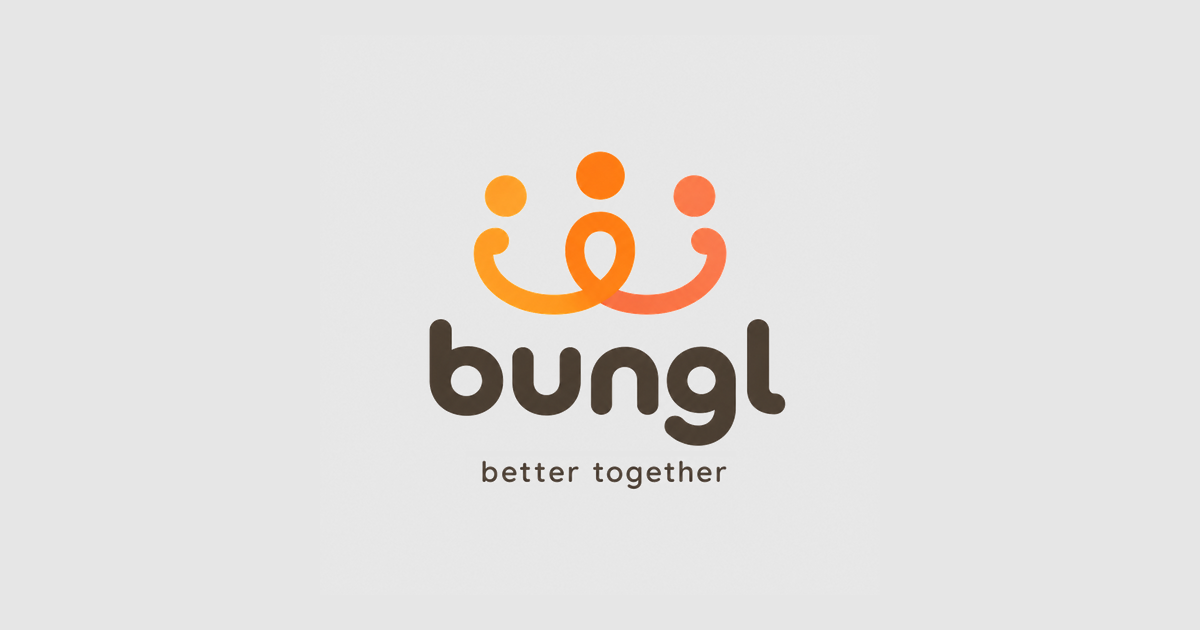
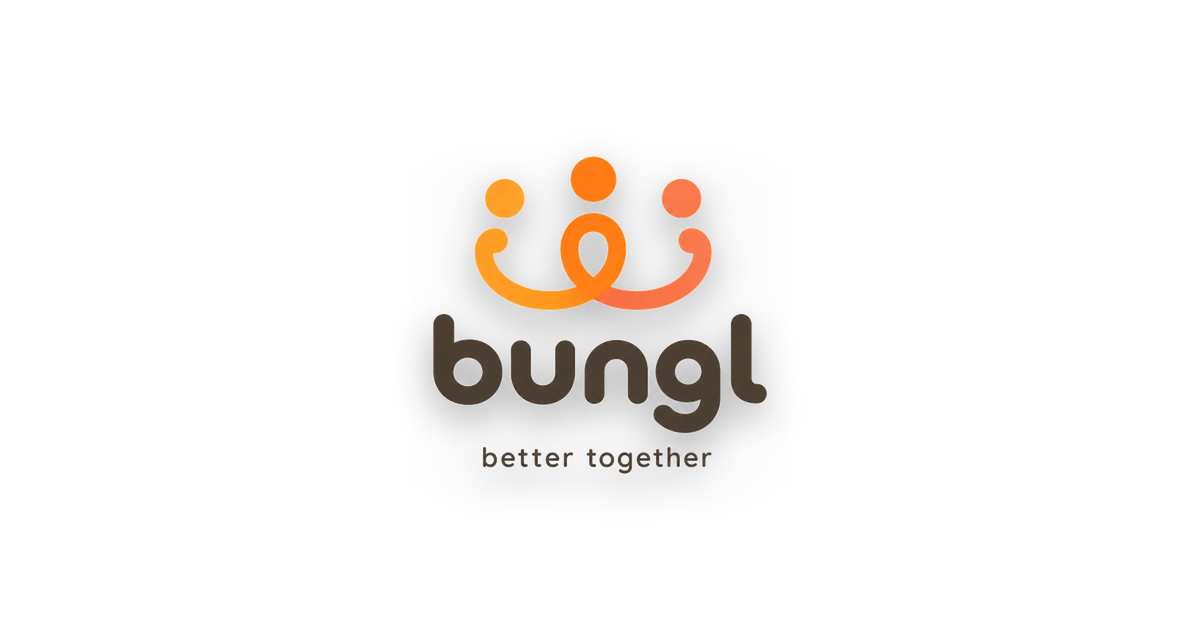
fix: OG/공유 로고 배경 회색→흰색 + 부드러운 그림자, 캐시버전 v3
og.png 캔버스 배경을 (230,230,230) 회색에서 순백으로 교체하고 로고 아래
soft drop shadow 추가. /b/·/c/ 의 og:image·twitter:image·로고 img 캐시버전 v3.

diff --git a/b/index.html b/b/index.html
@@ -8,16 +8,16 @@
   <meta property="og:site_name" content="Bungl" />
   <meta property="og:title" content="Bungl 벙에 초대받았어요" />
   <meta property="og:description" content="관심사로 모이는 소셜 밋업 — 링크를 열어 벙에 참여해보세요." />
-  <meta property="og:image" content="https://bungl.org/og.png?v=2" />
+  <meta property="og:image" content="https://bungl.org/og.png?v=3" />
   <meta property="og:image:width" content="1200" />
   <meta property="og:image:height" content="630" />
   <meta name="twitter:card" content="summary_large_image" />
   <meta name="twitter:title" content="Bungl 벙에 초대받았어요" />
-  <meta name="twitter:image" content="https://bungl.org/og.png?v=2" />
+  <meta name="twitter:image" content="https://bungl.org/og.png?v=3" />
   <link rel="stylesheet" href="../share.css" />
 </head>
 <body>
-  <img class="logo" src="../og.png" alt="Bungl" />
+  <img class="logo" src="../og.png?v=3" alt="Bungl" />
   <h1>Bungl 앱에서 열기</h1>
   <p class="status" id="status">앱을 여는 중이에요…</p>
   <div class="stores" id="stores" style="display:none">

diff --git a/c/index.html b/c/index.html
@@ -8,16 +8,16 @@
   <meta property="og:site_name" content="Bungl" />
   <meta property="og:title" content="Bungl 클럽에 초대받았어요" />
   <meta property="og:description" content="관심사로 모이는 소셜 밋업 — 링크를 열어 클럽을 둘러보세요." />
-  <meta property="og:image" content="https://bungl.org/og.png?v=2" />
+  <meta property="og:image" content="https://bungl.org/og.png?v=3" />
   <meta property="og:image:width" content="1200" />
   <meta property="og:image:height" content="630" />
   <meta name="twitter:card" content="summary_large_image" />
   <meta name="twitter:title" content="Bungl 클럽에 초대받았어요" />
-  <meta name="twitter:image" content="https://bungl.org/og.png?v=2" />
+  <meta name="twitter:image" content="https://bungl.org/og.png?v=3" />
   <link rel="stylesheet" href="../share.css" />
 </head>
 <body>
-  <img class="logo" src="../og.png" alt="Bungl" />
+  <img class="logo" src="../og.png?v=3" alt="Bungl" />
   <h1>Bungl 앱에서 열기</h1>
   <p class="status" id="status">앱을 여는 중이에요…</p>
   <div class="stores" id="stores" style="display:none">